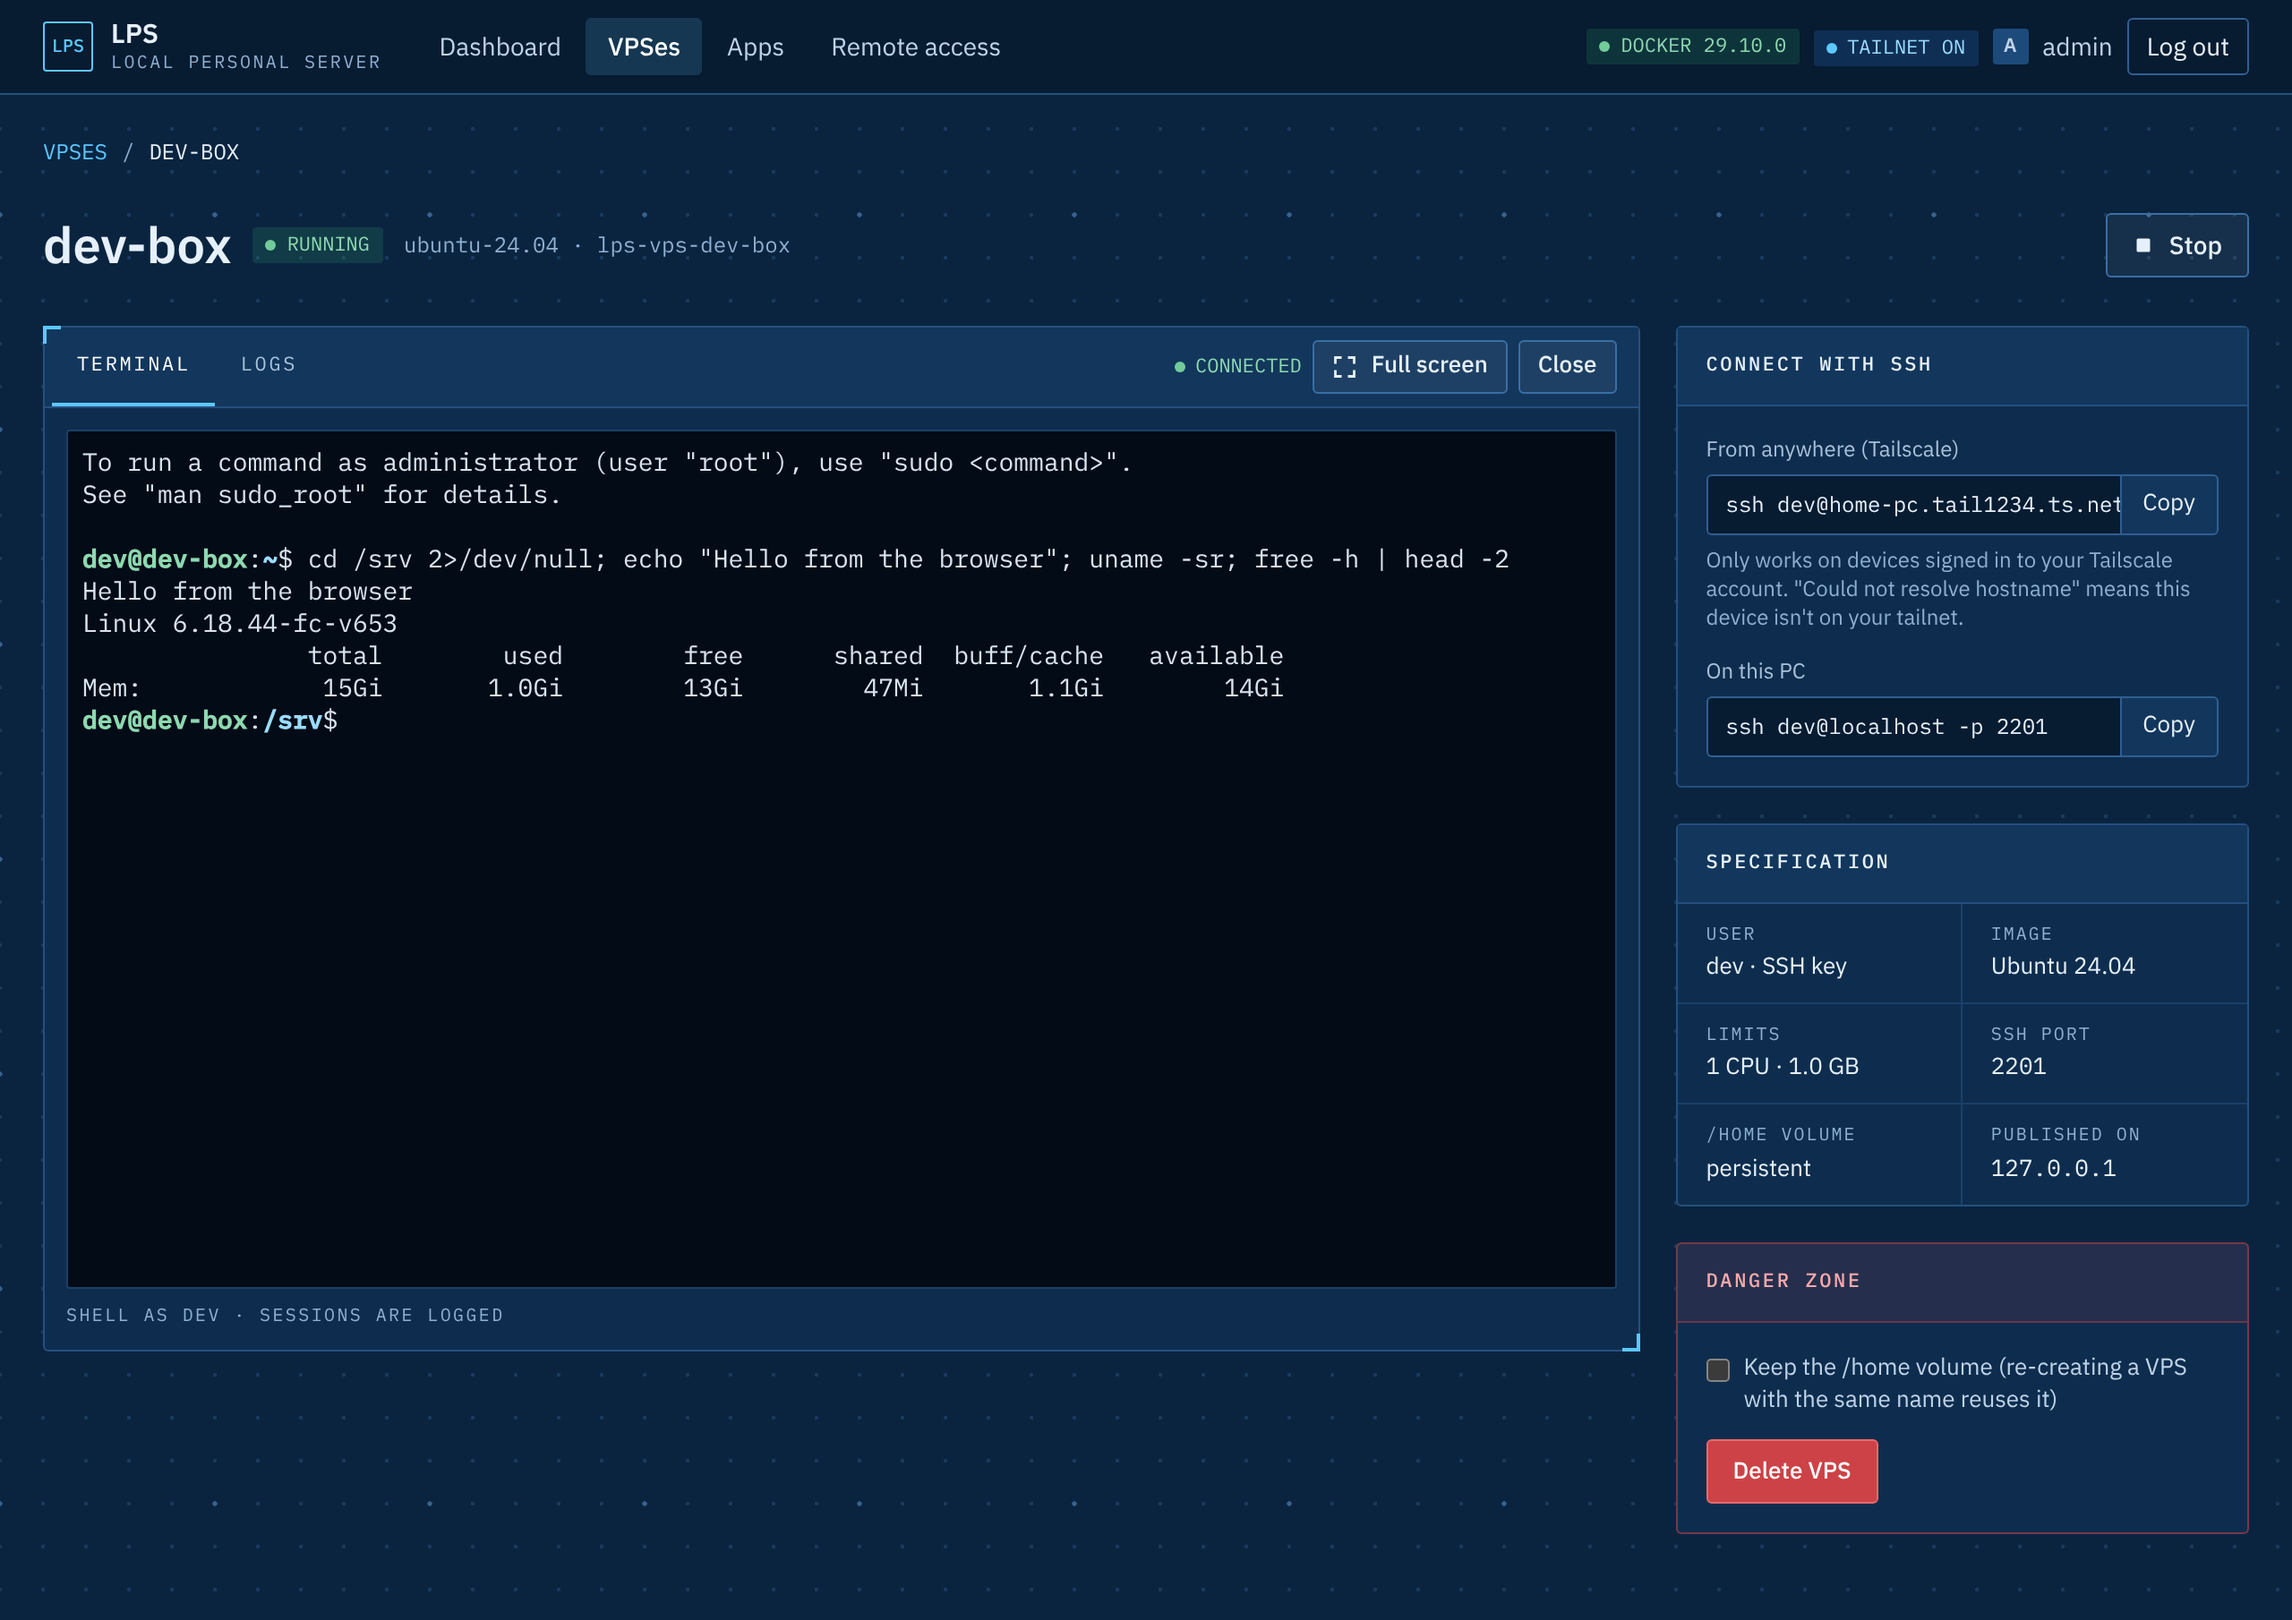
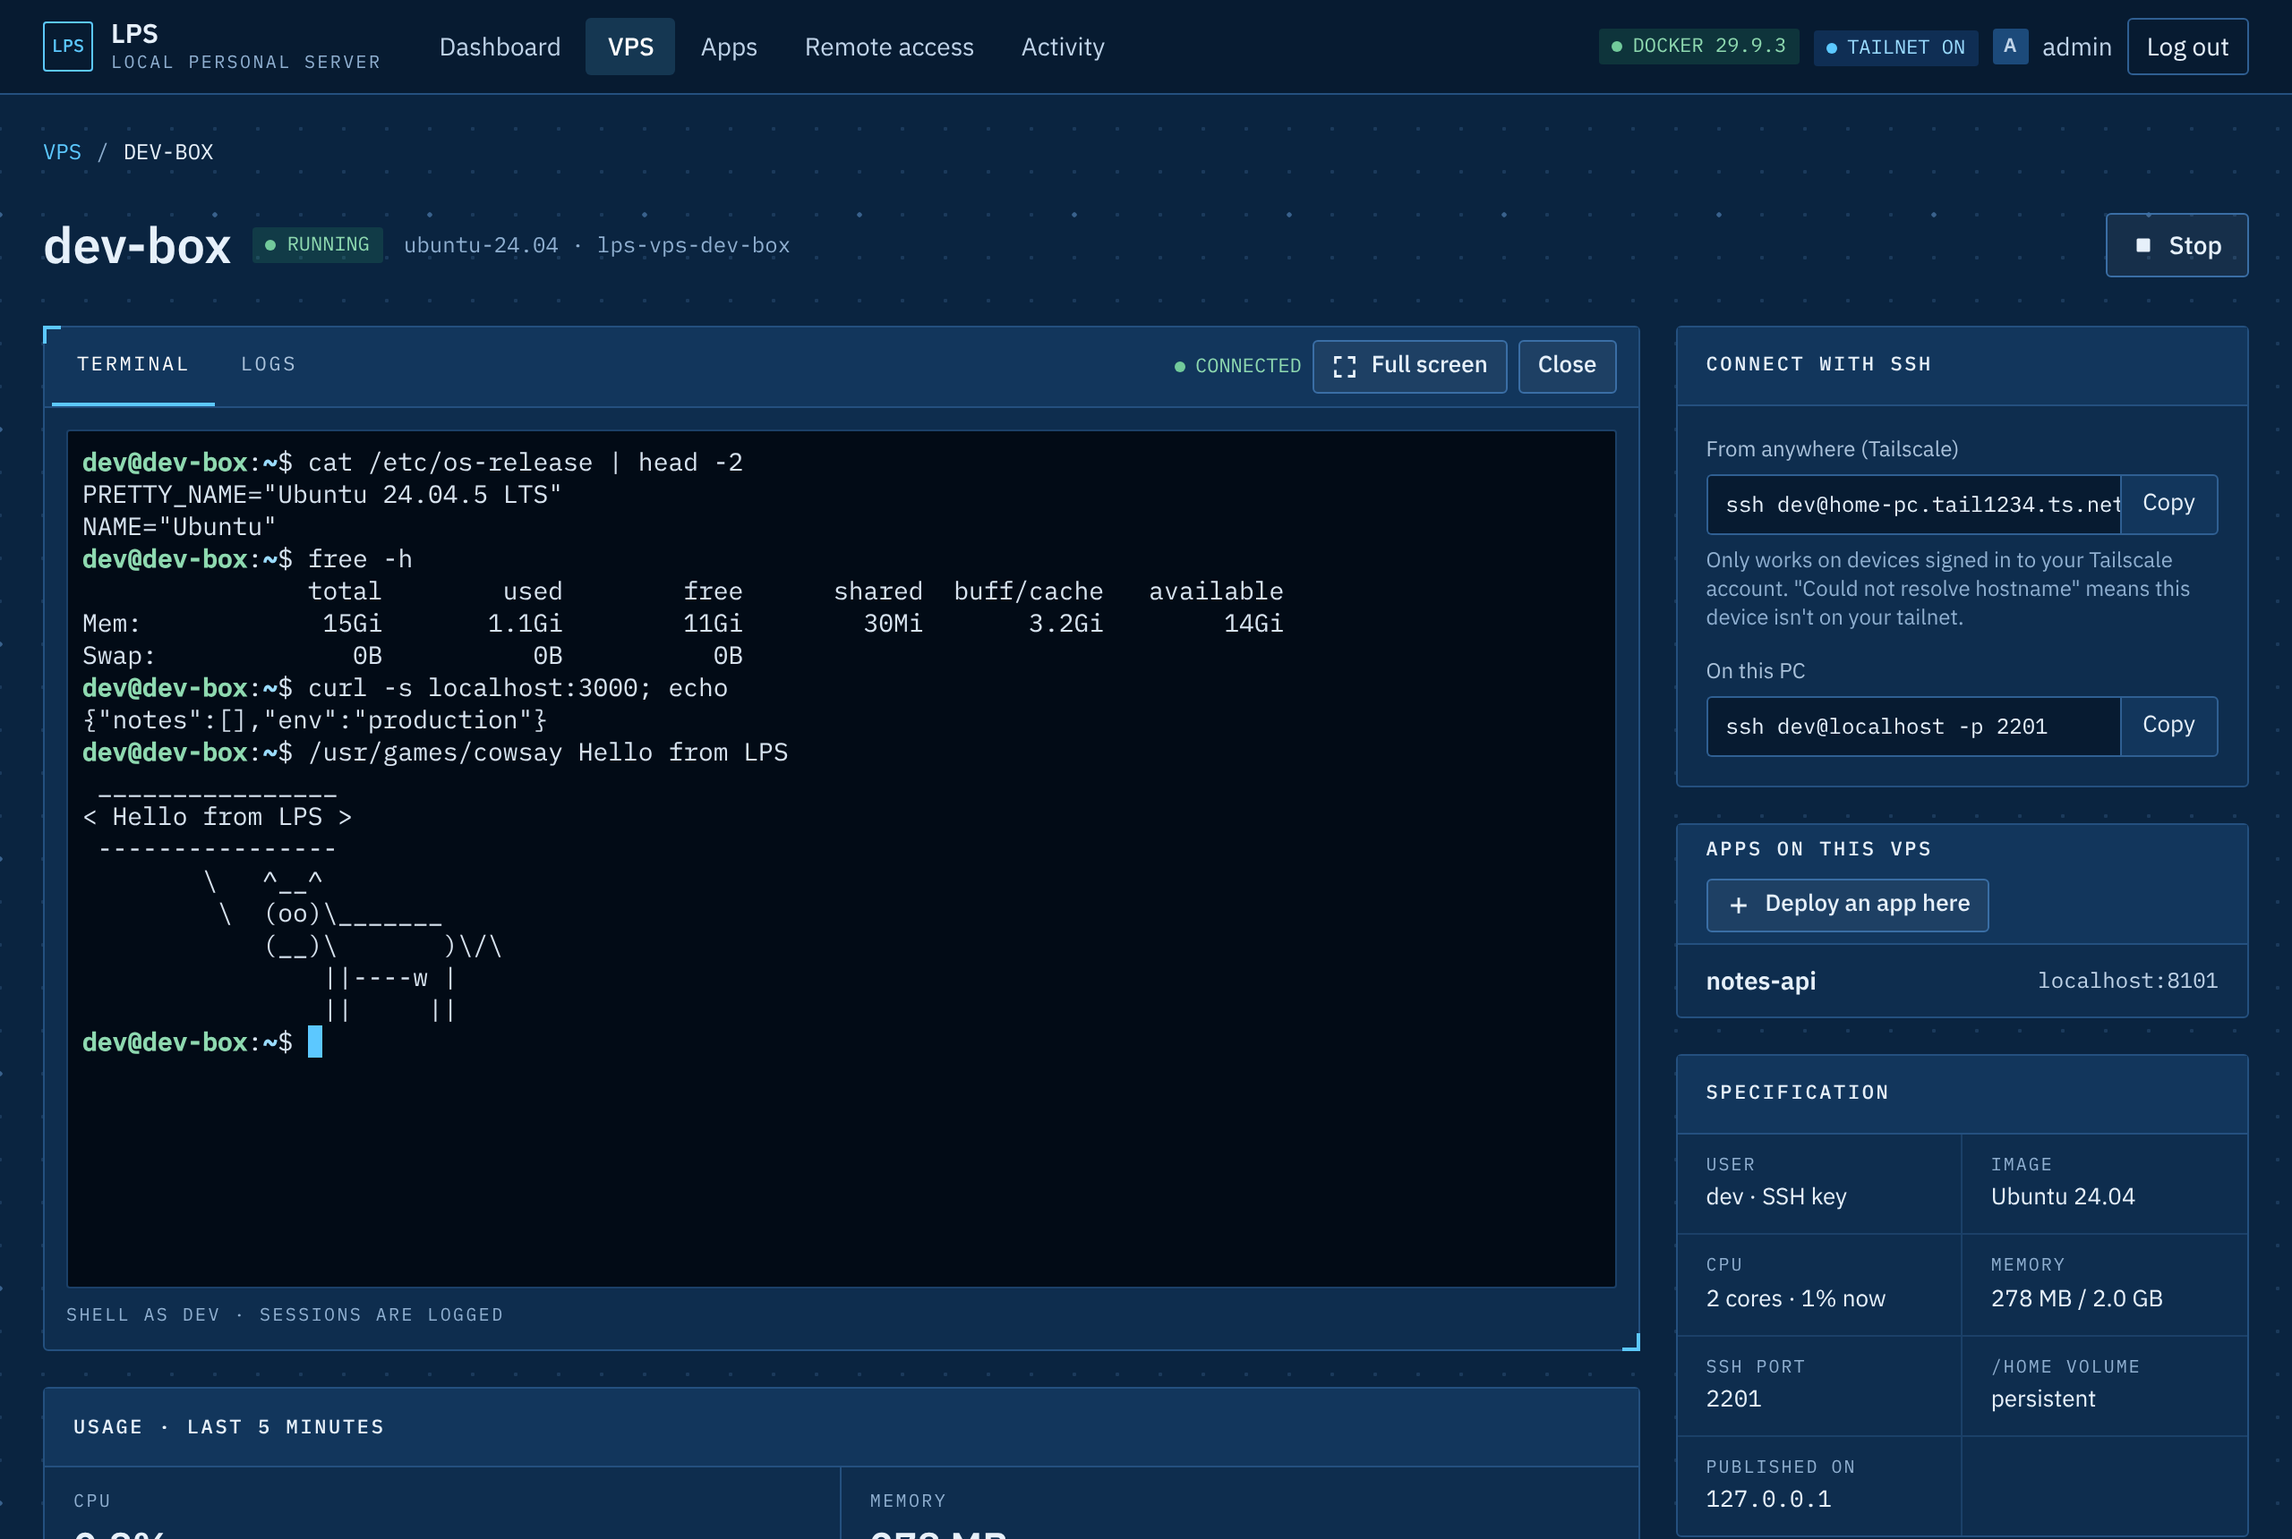
Refresh docs screenshots and diagrams for the current features
All screenshots were from before git deploys, env vars, snapshots,
2FA, Cloudflare links and the Activity page. Retake them from a
running LPS, add screenshots of the snapshots card, the environment
tab and two-factor setup, and drop two images no page uses.

Diagrams: add the restoring state and snapshot-based creation to the
VPS lifecycle, git clones to the deploy flow, and the cloudflare,
gitsrc, update and platform packages to the project layout.

Claude-Session: https://claude.ai/code/session_01MejdtqsFBDh1xAsYivKH4A

diff --git a/docs/remote-access.md b/docs/remote-access.md
@@ -44,9 +44,11 @@ flowchart LR
 3. In LPS, open **Remote access** and turn it on. LPS publishes the dashboard, every VPS's SSH port and every app on your tailnet, and keeps that in sync as you add or delete things.
 4. On your phone or laptop, install Tailscale, sign in with the same account, and open the dashboard address LPS shows (like `https://home-pc.your-tailnet.ts.net`).
 
-| Remote access page | App with a public link | Phone |
-|---|---|---|
-| ![Remote access page](images/remote.png) | ![App with private and public links](images/remote-app.png) | ![Remote access on a phone](images/remote-mobile.png) |
+![Remote access page with every step done and the list of published addresses](images/remote.png)
+
+The dashboard works on a phone too:
+
+<img src="images/remote-mobile.png" alt="LPS dashboard on a phone" width="300">
 
 **What gets published:**
 
@@ -69,6 +71,12 @@ flowchart LR
 - **"Could not resolve hostname", or the site can't be reached:** the device must have Tailscale connected and signed in to the **same account** as the home PC. `*.ts.net` addresses don't exist for other devices. On a Mac, keep **Use Tailscale DNS settings** on, and turn off other VPNs and iCloud Private Relay.
 - **It worked before but doesn't now:** the home PC must be on and awake, with Docker, Tailscale and lpsd running. Click **Check again** on the Remote access page and look for errors.
 - **A public link doesn't open:** it can take about a minute to start working.
+
+## Public links
+
+Every app's **Public link** card offers all three ways to share it outside your own devices: your own domain, a Cloudflare quick link and a Tailscale Funnel link.
+
+![Public link card on an app's page](images/remote-app.png)
 
 ## Cloudflare quick links
 
@@ -101,6 +109,8 @@ How it works:
 ## Two-factor sign-in
 
 Open **Account** (click your name at the top right) → **Turn on two-factor sign-in**. Scan the QR code with an authenticator app (Google Authenticator, Microsoft Authenticator, 1Password, Bitwarden, Authy…) and enter the code it shows. From then on, signing in needs your password and a 6-digit code.
+
+![Turning on two-factor sign-in on the Account page](images/two-factor.png)
 
 You also get **10 recovery codes**. Save them: each one signs you in once if you don't have your phone. You can make new ones on the Account page.
 

diff --git a/docs/development.md b/docs/development.md
@@ -61,19 +61,23 @@ Then open <http://127.0.0.1:7070> and create the admin account.
 ## Project layout
 
 ```mermaid
-flowchart TB
-    main["cmd/lpsd<br/>entry point, flags"] --> api["internal/api<br/>HTTP handlers, auth, background jobs"]
+flowchart LR
+    main["cmd/lpsd<br/>entry point, flags, subcommands"] --> appk["internal/app<br/>shared server startup"]
+    desk["cmd/lps<br/>desktop app + tray (Windows)"] --> appk
+    appk --> web["web/ (React)<br/>embedded dashboard"]
+    appk --> api["internal/api<br/>HTTP handlers, background jobs"]
     api --> store["internal/store<br/>SQLite + migrations"]
-    api --> auth["internal/auth<br/>bcrypt, sessions, rate limit"]
+    api --> auth["internal/auth<br/>bcrypt, sessions, 2FA, rate limit"]
     api --> dock["internal/docker<br/>Engine interface + Docker client"]
-    api --> build["internal/builder<br/>build context, .dockerignore"]
+    api --> build["internal/builder<br/>build context, Dockerfile templates"]
+    api --> git["internal/gitsrc<br/>pure-Go git clones"]
     api --> tun["internal/tunnel<br/>Provider interface + Tailscale CLI driver"]
+    api --> cf["internal/cloudflare<br/>Tunnel + DNS API client"]
+    api --> upd["internal/update<br/>GitHub release checks"]
+    api --> plat["internal/platform<br/>OS checks, data dirs, autostart"]
     dock --> img["images/ubuntu-vps<br/>embedded VPS image"]
-    main --> web["web/ (React)<br/>embedded dashboard"]
-    desk["cmd/lps<br/>desktop app + tray (Windows)"] --> appk["internal/app<br/>shared server startup"]
-    main --> appk
-    appk --> api
-    inst["installer/windows/lps.iss<br/>Inno Setup"] -.packages.-> desk
+    inst["installer/<br/>windows · linux · macos"] -.packages.-> main
+    inst -.packages.-> desk
 ```
 
 - **Frontend:** `web/` (React, Vite, TypeScript, TanStack Query, Tailwind 4, with tokens in `web/src/index.css`). IBM Plex fonts are bundled, so the dashboard works offline. For hot reload, run `npm run dev` in `web/` while `lpsd serve` is running; Vite proxies `/api` to it.

diff --git a/docs/apps.md b/docs/apps.md
@@ -17,15 +17,17 @@ Click **New app** and enter the absolute path to a project folder. Check the por
 
 ```mermaid
 flowchart TD
-    A["New app"] --> B{"Dockerfile in<br/>project folder?"}
-    B -- yes --> C["Pack folder<br/>(honours .dockerignore,<br/>skips .git, node_modules, .venv)"]
+    A["New app"] --> B{"Dockerfile in<br/>the code?"}
+    B -- yes --> S
     B -- no --> G1["LPS detects the project type<br/>Node · Python · Go · PHP · static"]
     G1 --> G2["You review / edit the<br/>generated Dockerfile"]
-    G2 --> C
-    R["Redeploy"] --> C
+    G2 --> S
+    R["Redeploy · new commit<br/>(auto-deploy)"] --> S
+    S{"Code from"} -- folder --> C["Pack folder<br/>(honours .dockerignore,<br/>skips .git, node_modules, .venv)"]
+    S -- git --> GC["Shallow clone of the branch"] --> C
     C --> D["docker build → lps-app-name:N<br/>(log streamed to the dashboard)"]
     D -- "build fails" --> F["Deployment marked failed<br/>running version keeps serving"]
-    D -- "build OK" --> E["Replace container<br/>127.0.0.1:81xx → app port"]
+    D -- "build OK" --> E["Replace container with env vars<br/>127.0.0.1:81xx → app port"]
 ```
 
 ## Projects without a Dockerfile
@@ -71,6 +73,8 @@ A VPS publishes only its SSH port, so each VPS app gets a small relay container 
 ## Environment variables and secrets
 
 On an app's **Environment** tab, add variables one by one or **paste a `.env` file**. Mark the secret ones as **secret**, then click **Save & redeploy**.
+
+![Environment tab with a saved secret](images/app-env.png)
 
 - **Container apps:** the variables are set on the container.
 - **Apps in a VPS:** the variables are passed to the install and start commands. LPS sets `PORT`, `HOST` and `HOME` itself, so you can't use those names.

diff --git a/docs/vps.md b/docs/vps.md
@@ -59,6 +59,8 @@ Only the signed-in admin can open a terminal. The WebSocket refuses cross-site r
 
 The **Snapshots** card on a VPS page saves **everything** in the VPS: installed software and settings (the container's files, saved as an image) and a copy of `/home`. Snapshots stay in Docker on this PC.
 
+![Snapshots card with a daily schedule and one snapshot](images/snapshots.png)
+
 - **Take snapshot** works while the VPS runs; the VPS is paused only while its files are saved. For something that writes all the time, such as a database, stop the VPS first to get a fully consistent copy.
 - **Restore** puts the VPS back exactly as it was: files, users, passwords, SSH keys and host keys. LPS snapshots the current state first, so you can undo a restore. Apps running in the VPS come back on their own.
 - **New VPS from it** makes a copy with a new name and SSH port.
@@ -72,11 +74,15 @@ The **Snapshots** card on a VPS page saves **everything** in the VPS: installed 
 ```mermaid
 stateDiagram-v2
     direction LR
-    [*] --> provisioning: create
+    [*] --> provisioning: create, or from a snapshot / .lpsnap file
     provisioning --> running: started
     provisioning --> error: build/create failed
     running --> stopped: stop
     stopped --> running: start
+    running --> restoring: restore snapshot
+    stopped --> restoring: restore snapshot
+    restoring --> running: restored
+    restoring --> error: restore failed
     running --> [*]: delete
     stopped --> [*]: delete
     error --> [*]: delete
